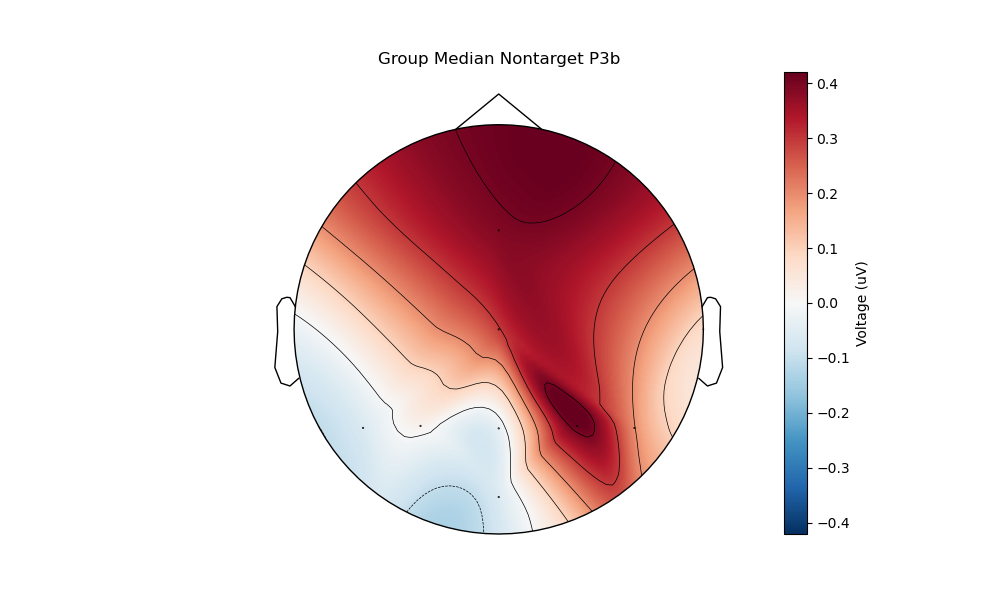
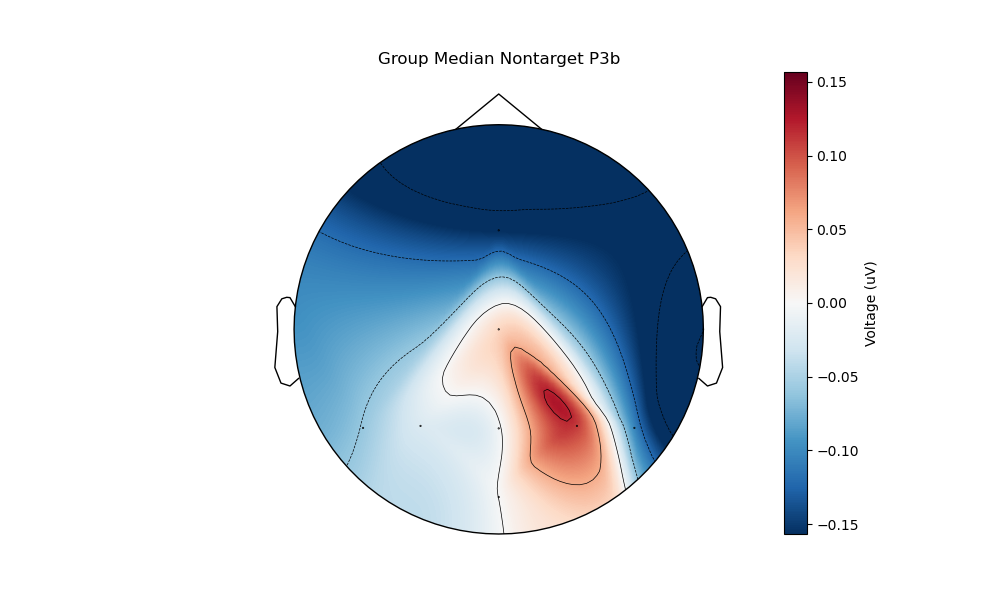
Final Push

diff --git a/plot_p300_data.py b/plot_p300_data.py
@@ -403,7 +403,6 @@ def plot_false_discovery_rate(eeg_epochs, erp_times, target_erp, nontarget_erp, 
     
     # save image
     plt.savefig(f'P300_S{subject}_channel_plots_with_significance.png')  # save as image
-    print("shape of the significant time points array:", np.array(significant_times).shape)
     return significant_times
 
 #%% Part E: Evaluate Across Subjects
@@ -564,7 +563,54 @@ def plot_spatial_map(eeg_epochs, is_target_event, erp_times, subjects=np.arange(
     # declare lists for storing ERP data for each subject
     individual_median_erp_target = []
     individual_median_erp_nontarget = []    
-    
+    # convert erp_times to an array
+    #erp_times = np.array(erp_times)
+    for subject in np.arange(4,6):
+        
+        # load the erp data for each subject
+        is_target_event, eeg_epochs, erp_times, target_erp, nontarget_erp = load_erp_data(subject, data_directory,  epoch_start_time=-0.5, epoch_end_time=1.0)
+        median_target_eeg = np.median(eeg_epochs[is_target_event], axis=0)
+        median_nontarget_eeg = np.median(eeg_epochs[~is_target_event], axis=0)
+        erp_times = np.array(erp_times)
+        n2_time_range = (0.2, 0.3)  # 200-300 ms
+        n2_start_time, n2_end_time = n2_time_range
+        n2_start_index = np.where(erp_times >= n2_start_time)[0][0]
+        n2_end_index = np.where(erp_times<=n2_end_time)[0][-1]
+        
+        p3b_time_range = (0.3, 0.5)  # 300-500 ms
+        p3b_start_time, p3b_end_time = p3b_time_range
+        p3b_start_index = np.where(erp_times >=p3b_start_time)[0][0]
+        p3b_end_index = np.where(erp_times <= p3b_end_time)[0][-1]
+        
+        # extract target and nontarget ERPs for N2 and P3b time ranges
+        target_n2 = median_target_eeg[n2_start_index:n2_end_index +1,:]
+        target_p3b = median_target_eeg[p3b_start_index:p3b_end_index + 1,:]
+        
+        nontarget_n2 = median_nontarget_eeg[n2_start_index:n2_end_index +1,:]
+        nontarget_p3b = median_nontarget_eeg[p3b_start_index:p3b_end_index +1,:]
+       
+        # make channel array to edit order once 
+        channel_array = ['P4','Pz','Cz','Fz','P8','Oz','P3','P7']        
+       
+        # plot and save topomaps for N2 and P3b time ranges
+        plt.figure(figsize=(10, 6))
+        plot_topo(channel_array, channel_data=target_n2.T, title='Group Median Target N2', montage_name='standard_1020')
+        plt.savefig(f'target_n2_topomap_subject_{subject}.png') 
+        
+        plt.figure(figsize=(10, 6))
+        plot_topo(channel_array, channel_data=nontarget_n2.T, title='Group Median Nontarget N2')
+        plt.savefig(f'nontarget_n2_topomap_subject_{subject}.png') 
+            
+        plt.figure(figsize=(10, 6))
+        plot_topo(channel_array, channel_data=target_p3b.T, title='Group Median Target P3b')
+        plt.savefig(f'target_p3b_topomap_subject_{subject}.png') 
+        
+        plt.figure(figsize=(10, 6))
+        plot_topo(channel_array, channel_data=nontarget_p3b.T, title='Group Median Nontarget P3b')
+        plt.savefig(f'nontarget_p3b_topomap_subject_{subject}.png') 
+            
+
+
     # find individual median ERP data
     for subject in subjects: # for each subject
         
@@ -572,10 +618,10 @@ def plot_spatial_map(eeg_epochs, is_target_event, erp_times, subjects=np.arange(
         is_target_event, eeg_epochs, erp_times, target_erp, nontarget_erp = load_erp_data(subject, data_directory,  epoch_start_time=-0.5, epoch_end_time=1.0)
  
         # add the median ERP data for the subject to the list
-        individual_median_erp_target.append(np.median(eeg_epochs[is_target_event], axis=0))
+        individual_median_erp_target.append(np.median(eeg_epochs[is_target_event],axis = 0))
         
-        individual_median_erp_nontarget.append(np.median(eeg_epochs[~is_target_event], axis=0))
-    
+        individual_median_erp_nontarget.append(np.median(eeg_epochs[~is_target_event],axis =0))
+    erp_times = np.array(erp_times)
     # convert from list to array
     individual_median_erp_target = np.array(individual_median_erp_target)
     individual_median_erp_nontarget = np.array(individual_median_erp_nontarget)
@@ -586,35 +632,29 @@ def plot_spatial_map(eeg_epochs, is_target_event, erp_times, subjects=np.arange(
     # calculate group median ERPs
     group_median_erp_target = np.median(individual_median_erp_target, axis=0)
     group_median_erp_nontarget = np.median(individual_median_erp_nontarget, axis=0)
-    
+   
     # get time ranges
-    erp_times = np.array(erp_times) # convert erp_times to an array
+    
     
     n2_time_range = (0.2, 0.3)  # 200-300 ms
     n2_start_time, n2_end_time = n2_time_range
-    n2_start_index = np.argmin(np.abs(erp_times >= n2_start_time))
-    n2_end_index = np.argmin(np.abs(erp_times <= n2_end_time))
+    n2_start_index = np.where(erp_times >= n2_start_time)[0][0]
+    n2_end_index = np.where(erp_times<=n2_end_time)[0][-1]
     
     p3b_time_range = (0.3, 0.5)  # 300-500 ms
     p3b_start_time, p3b_end_time = p3b_time_range
-    p3b_start_index = np.argmin(np.abs(erp_times >= p3b_start_time))
-    p3b_end_index = np.argmin(np.abs(erp_times <= p3b_end_time))
+    p3b_start_index = np.where(erp_times >=p3b_start_time)[0][0]
+    p3b_end_index = np.where(erp_times <= p3b_end_time)[0][-1]
     
     # extract target and nontarget ERPs for N2 and P3b time ranges
-    target_n2 = group_median_erp_target[n2_start_index:n2_end_index,:]
-    target_p3b = group_median_erp_target[p3b_start_index:p3b_end_index,:]
+    target_n2 = group_median_erp_target[n2_start_index:n2_end_index +1,:]
+    target_p3b = group_median_erp_target[p3b_start_index:p3b_end_index + 1,:]
     
-    nontarget_n2 = group_median_erp_nontarget[n2_start_index:n2_end_index,:]
-    nontarget_p3b = group_median_erp_nontarget[p3b_start_index:p3b_end_index,:]
+    nontarget_n2 = group_median_erp_nontarget[n2_start_index:n2_end_index +1,:]
+    nontarget_p3b = group_median_erp_nontarget[p3b_start_index:p3b_end_index +1,:]
    
     # make channel array to edit order once
-    #channel_array = ['P7', 'P8','Oz','P3','Cz', 'Pz', 'P4','Fz']
-    #channel_array = ['Oz','P7', 'P8','P3','Cz', 'Pz', 'P4','Fz']
-    #channel_array = ['Fz','Cz','P3','Pz','P4','P7','Oz','P8']
-    # *channel_array = ['Oz','P7','P4','Pz','P3','Cz','Fz','P8']
-    #channel_array = ['Pz','P3','Cz','Fz','P8','Oz','P7','P4']
-    # 2: channel_array = ['Fz','Cz','P3','Pz','P4','P7','Oz','P8']
-    channel_array = ['P3','Fz','Cz','P4','Pz','P8','Oz','P7']
+    channel_array = ['P4','Pz','Cz','Fz','P8','Oz','P3','P7']
     # plot and save topomaps for N2 and P3b time ranges
     plt.figure(figsize=(10, 6))
     plot_topo(channel_array, channel_data=target_n2.T, title='Group Median Target N2', montage_name='standard_1020')

diff --git a/test_plot_p300_data.py b/test_plot_p300_data.py
@@ -54,8 +54,8 @@ for randomization_index in range(randomization_count): # perform 3000 randomizat
 # find test statistics
 bootstrapped_erp_difference = test_statistic(sampled_target_erp, sampled_nontarget_erp) # resampled data
 real_erp_difference = test_statistic(target_erp, nontarget_erp) # actual data
-print("real_erp_difference shape:", real_erp_difference.shape)
-print("bootstrapped_erp_difference shape:", bootstrapped_erp_difference.shape)
+print("shape of the array containing real_erp_differences:", real_erp_difference.shape)
+print("shape of the array containing bootstrapped_erp_differences:", bootstrapped_erp_difference.shape)
 # determine p_values
 p_values = calculate_p_values(sampled_target_erp, sampled_nontarget_erp,target_erp, nontarget_erp) # default conditions
 
@@ -68,8 +68,7 @@ significant_times = plot_false_discovery_rate(eeg_epochs, erp_times, target_erp,
 
 # perform the loop on relevant subjects
 subject_significance = multiple_subject_evaluation() # default conditions
-# Test to make sure the shape is what it is supposed to be 
-print("Shape of subject_significance:", subject_significance.shape)
+
 #%%
 # plot the number of subjects with significant sample time in a channel
 plot_subject_significance(erp_times, subject_significance)
